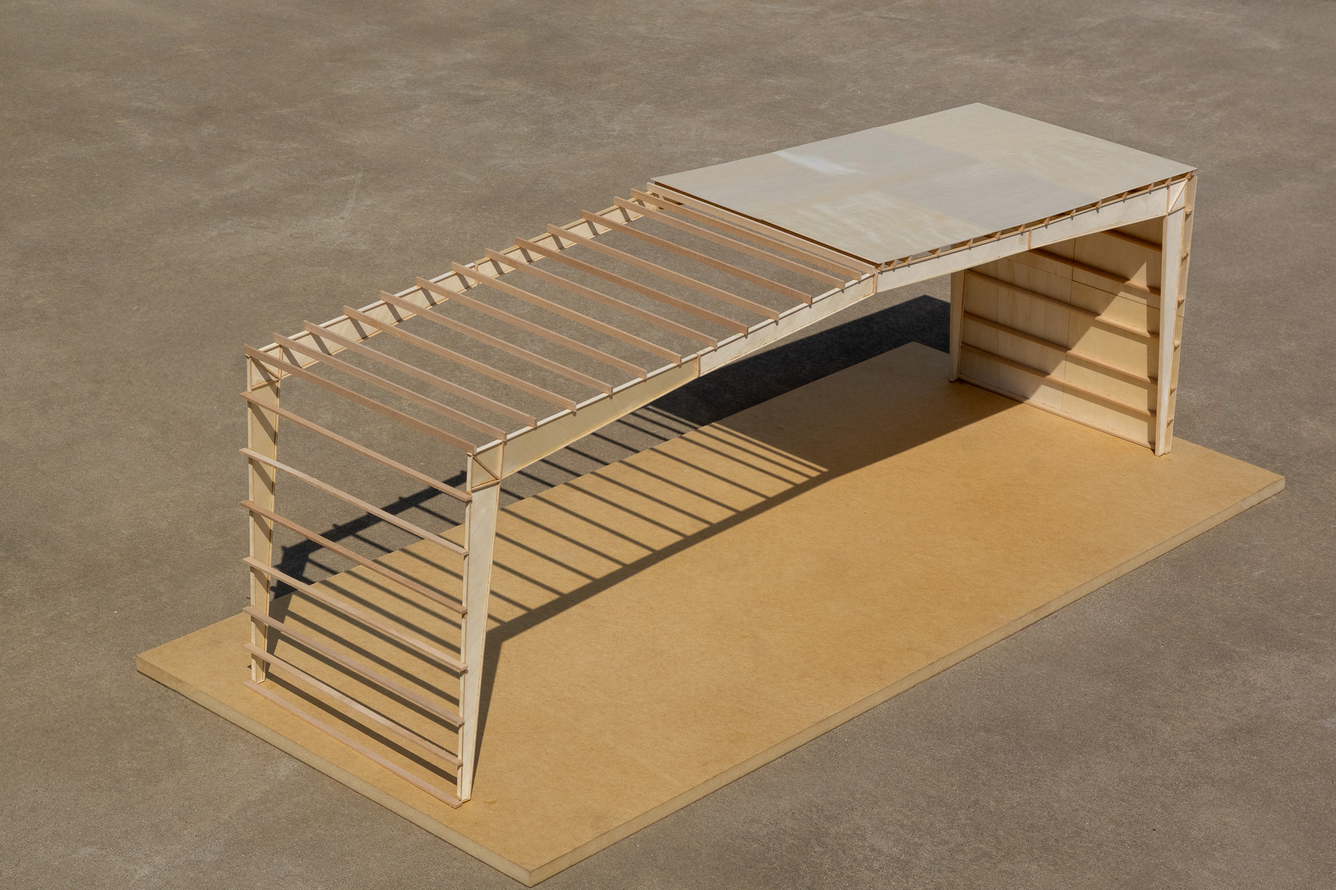
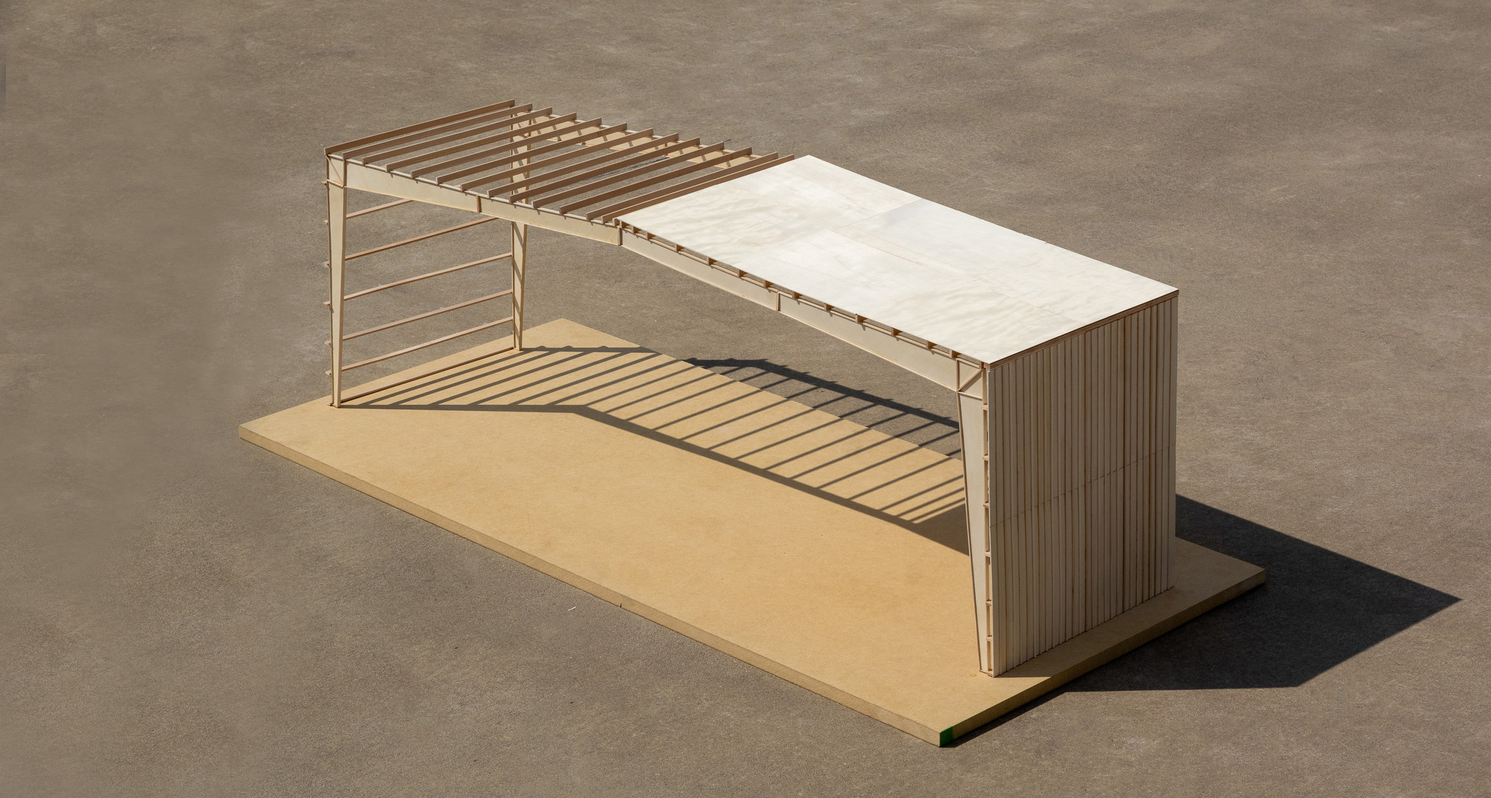
P2 ui changes

diff --git a/project2.html b/project2.html
@@ -202,28 +202,32 @@
     .project-nav {
       display: grid;
       grid-template-columns: 1fr 1fr;
-      gap: 28px;
+      gap: 20px;
       margin-bottom: 80px;
+      padding: 0 10%;
     }
 
     .project-nav-btn {
+      position: relative;
       display: block;
-      border: 2.5px solid #999999;
-      border-radius: 20px;
+      border: 2px solid rgba(0,0,0,0.14);
+      border-radius: 16px;
       overflow: hidden;
-      aspect-ratio: 1.8 / 1;
+      aspect-ratio: 1.6 / 1;
       text-decoration: none;
-      transition: all 0.2s ease;
+      transition: transform 0.25s cubic-bezier(0.16,1,0.3,1), box-shadow 0.25s ease, border-color 0.25s ease;
       cursor: pointer;
     }
 
     .project-nav-btn--large {
       grid-column: 1 / -1;
+      aspect-ratio: 2.2 / 1;
     }
 
     .project-nav-btn:hover {
-      transform: translateY(-4px);
-      box-shadow: 0 12px 32px rgba(0,0,0,0.12);
+      transform: translateY(-5px);
+      box-shadow: 0 16px 40px rgba(0,0,0,0.18);
+      border-color: rgba(0,0,0,0.30);
     }
 
     .project-nav-btn img {
@@ -231,6 +235,90 @@
       height: 100%;
       object-fit: cover;
       display: block;
+      transition: transform 0.4s cubic-bezier(0.16,1,0.3,1);
+    }
+
+    .project-nav-btn:hover img {
+      transform: scale(1.04);
+    }
+
+    .project-nav-btn--large img {
+      transform: scale(1.48) translateY(7%);
+    }
+
+    .project-nav-btn--large:hover img {
+      transform: scale(1.54) translateY(7%);
+    }
+
+    .project-nav-btn--p1 img {
+      transform: scale(1.03);
+      object-position: center 60%;
+    }
+
+    .project-nav-btn--p1:hover img {
+      transform: scale(1.07);
+      object-position: center 60%;
+    }
+
+    .nav-btn-label {
+      position: absolute;
+      inset: 0;
+      background: linear-gradient(to top, rgba(0,0,0,0.70) 0%, rgba(0,0,0,0.15) 50%, transparent 75%);
+      display: flex;
+      flex-direction: column;
+      justify-content: flex-end;
+      padding: 24px 32px;
+      transition: background 0.25s ease;
+    }
+
+    .project-nav-btn:hover .nav-btn-label {
+      background: linear-gradient(to top, rgba(0,0,0,0.80) 0%, rgba(0,0,0,0.20) 55%, transparent 80%);
+    }
+
+    .nav-btn-eyebrow {
+      font-family: var(--font-ui);
+      font-size: 0.7rem;
+      letter-spacing: 0.14em;
+      text-transform: uppercase;
+      color: rgba(255,255,255,0.65);
+      margin-bottom: 4px;
+    }
+
+    .nav-btn-title {
+      font-family: var(--font-display);
+      font-size: var(--text-xl);
+      font-weight: 400;
+      color: #ffffff;
+      line-height: 1.2;
+    }
+
+    .project-nav-btn--large .nav-btn-title {
+      font-size: var(--text-2xl);
+    }
+
+    .project-nav-btn--large .nav-btn-label {
+      padding: 32px 40px;
+    }
+
+    /* ── P2 IMAGE + TEXT OVERLAY ── */
+    .p2-image-block {
+      position: relative;
+    }
+
+    .p2-text-overlay {
+      position: absolute;
+      top: -72px;
+      left: 48px;
+      max-width: 760px;
+      padding: 32px 36px;
+    }
+
+    .p2-text-overlay .section-label {
+      margin-bottom: 10px;
+    }
+
+    .p2-text-overlay .section-heading {
+      margin-bottom: 16px;
     }
 
     /* ── IMAGE STACK ── */
@@ -286,6 +374,7 @@
       .scroll-hint      { right: 24px; }
       .panel-inner      { padding: 48px 24px 80px; }
       .project-meta     { gap: 28px; }
+      .project-nav      { gap: 12px; padding: 0 12px; }
     }
   </style>
 </head>
@@ -319,7 +408,6 @@
 
 <main class="content-panel">
   <div class="panel-inner">
-
     <div class="project-meta">
       <div class="meta-item">
         <span class="meta-label">Class</span>
@@ -334,19 +422,33 @@
         <span class="meta-value">Undergraduate Architect</span>
       </div>
     </div>
+  </div>
 
-    <div class="project-nav">
-      <a href="#project-p3" class="project-nav-btn project-nav-btn--large">
-        <img src="assets/p2 p3.jpg" alt="P3: Fayetteville Art Hall" style="transform: scale(1.48) translateY(7%);">
-      </a>
-      <a href="#project-p2" class="project-nav-btn">
-        <img src="assets/p2 p2.jpg" alt="P2: Roof Transformation">
-      </a>
-      <a href="#project-p1" class="project-nav-btn">
-        <img src="assets/p2 p1.jpg" alt="P1: Roof Precedent">
-      </a>
-    </div>
+  <div class="project-nav">
+    <a href="#project-p3" class="project-nav-btn project-nav-btn--large">
+      <img src="assets/p2 p3.jpg" alt="P3: Fayetteville Art Hall">
+      <div class="nav-btn-label">
+        <span class="nav-btn-eyebrow">Final Work</span>
+        <span class="nav-btn-title">Fayetteville Art Hall</span>
+      </div>
+    </a>
+    <a href="#project-p2" class="project-nav-btn">
+      <img src="assets/p2 p2.jpg" alt="P2: Roof Transformation">
+      <div class="nav-btn-label">
+        <span class="nav-btn-eyebrow">P2</span>
+        <span class="nav-btn-title">Roof Transformation</span>
+      </div>
+    </a>
+    <a href="#project-p1" class="project-nav-btn project-nav-btn--p1">
+      <img src="assets/p2 p1.jpg" alt="P1: Roof Precedent">
+      <div class="nav-btn-label">
+        <span class="nav-btn-eyebrow">P1</span>
+        <span class="nav-btn-title">Roof Precedent</span>
+      </div>
+    </a>
+  </div>
 
+  <div class="panel-inner">
     <hr class="section-rule">
 
     <section class="project-section" id="project-p3" style="margin-top: 96px;">
@@ -375,14 +477,20 @@
   <div class="panel-inner">
     <hr class="section-rule">
 
-    <section class="project-section" id="project-p2">
+  </div>
+
+  <div class="p2-image-block">
+    <img src="assets/p2 p2 1.jpg" alt="" class="project-img">
+    <div class="p2-text-overlay" id="project-p2">
       <p class="section-label">P2</p>
       <h2 class="section-heading">Roof Transformation</h2>
       <p class="section-body">
         Building on the large-span hangar precedent, this project explores how a single idea "expand" can transform structure and space. Emerging from a series of nine design experiments, the concept drives a spatial journey from a tight, intimate entry to a soaring open interior, creating a compelling sense of release while staying rooted in the logic of the studied hangar precident.
       </p>
-    </section>
+    </div>
+  </div>
 
+  <div class="panel-inner" style="padding-top: 64px;">
     <hr class="section-rule">
 
     <section class="project-section" id="project-p1">

diff --git a/portfolio.html b/portfolio.html
@@ -113,6 +113,8 @@
       pointer-events: none;
       user-select: none;
       -webkit-user-select: none;
+      object-fit: cover;
+      object-position: bottom center;
     }
 
     /* ─── ENTRY ASCII ─── */
